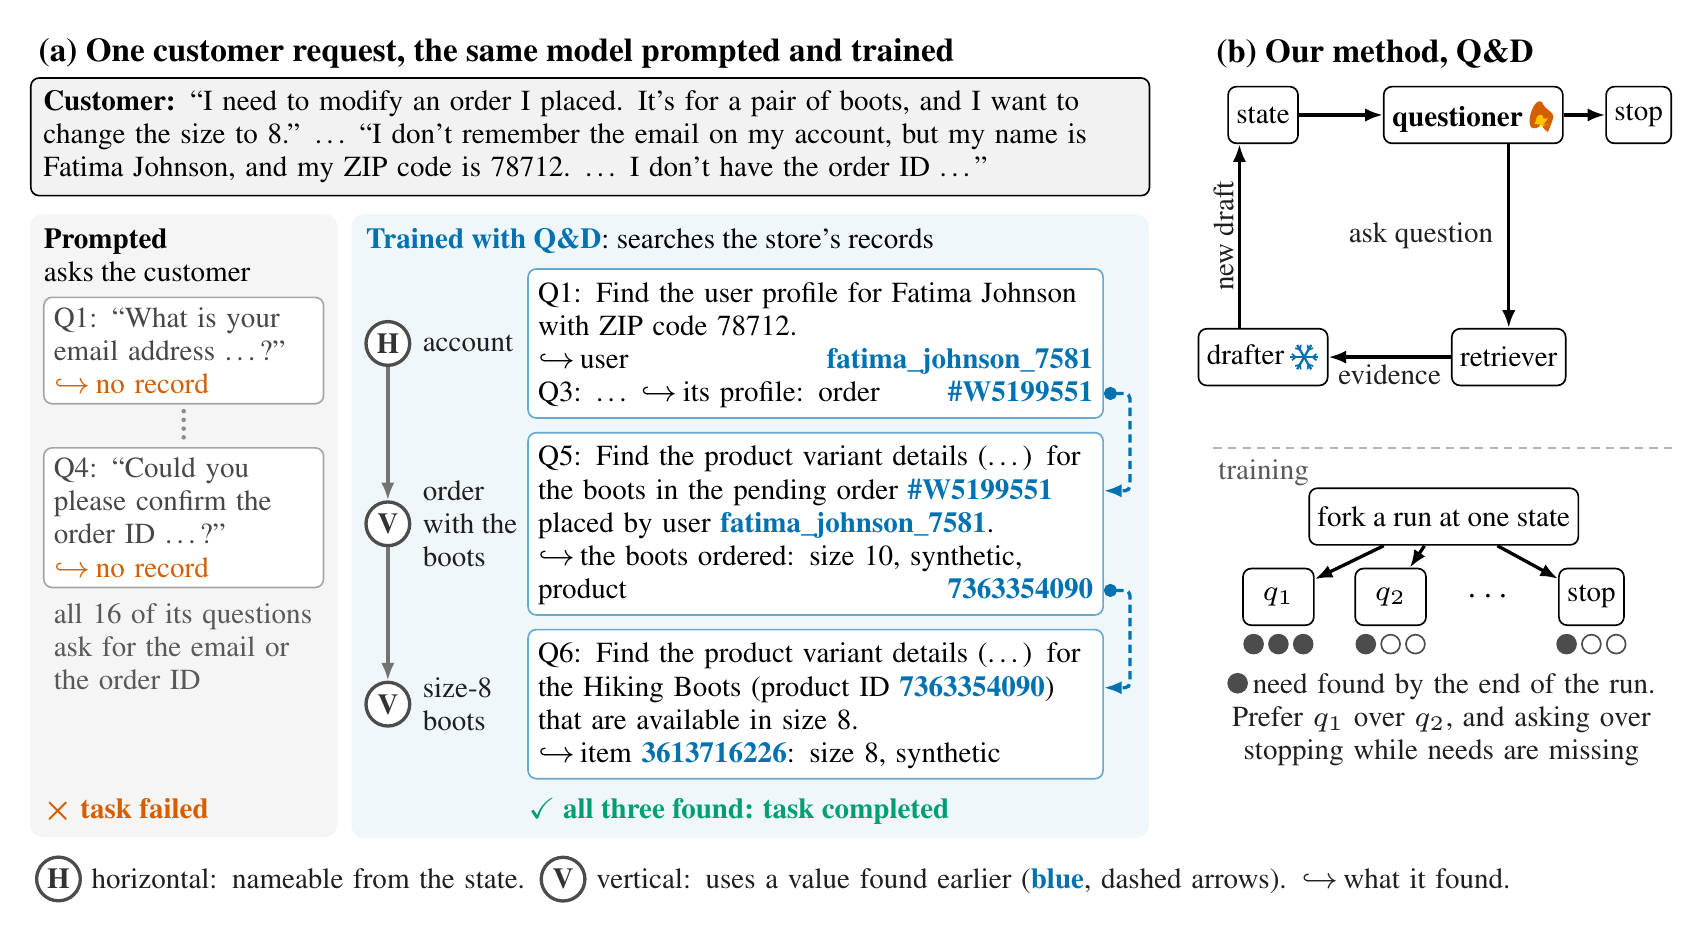
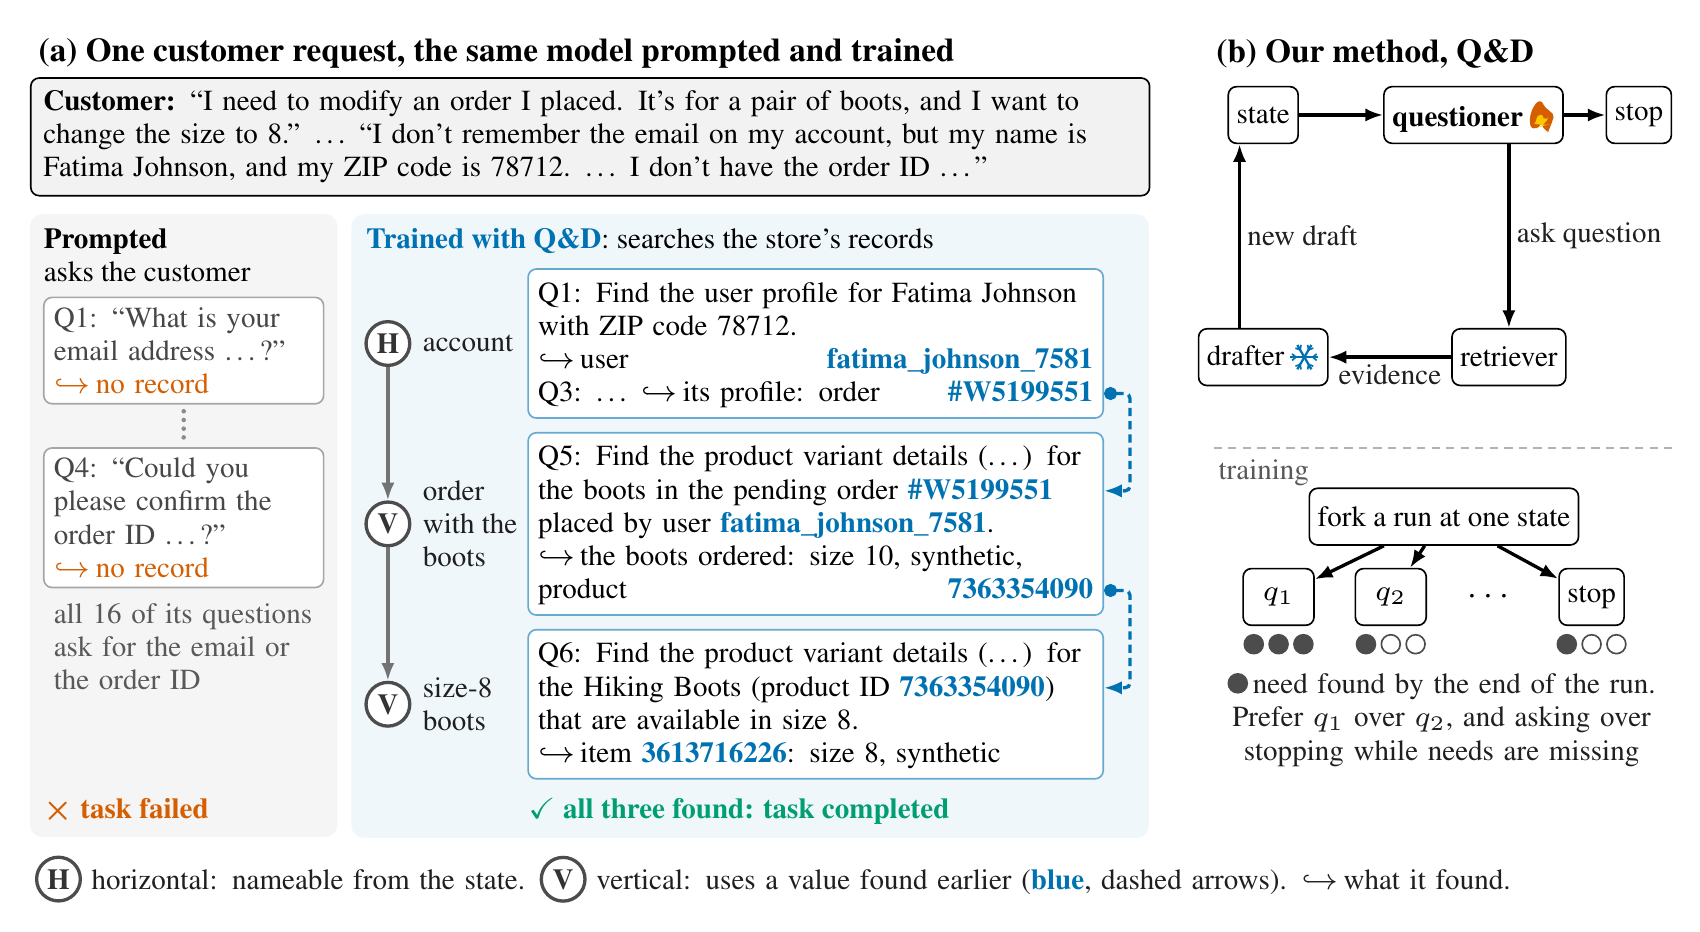
README and CITATION.cff: the paper is on arXiv (2609.37236), with the code's Zenodo DOI; Figure 1 with the paper's current panel (b); figure PDFs embed TrueType fonts

diff --git a/tests/test_paper_figures_iclr.py b/tests/test_paper_figures_iclr.py
@@ -3363,3 +3363,27 @@ def test_table_fourseeds_fits_at_full_size_with_six_columns(gen, tmp_path):
     spec = next(ln for ln in body if ln.startswith(r"\begin{tabular}"))
     assert "{@{}lccccc@{}}" in spec, spec
     assert not any("between-run SD" in ln or "bootstrap SE" in ln for ln in body)
+
+
+# --------------------------------------------------------------------------- font embedding
+
+
+def test_a_figure_pdf_embeds_its_fonts_as_truetype_not_type_3(gen):
+    """Google Scholar's inclusion guidelines: "Avoid use of Type 3 fonts in PDF files, because
+    they're often generated with missing or incorrect font size and character encoding information,
+    which makes it difficult for our parser software to extract the bibliographic data." matplotlib
+    writes Type 3 unless told otherwise, so the script's style must set TrueType (fonttype 42)."""
+    import io
+
+    plt = gen._mpl()
+    fig, ax = plt.subplots(figsize=(2, 1))
+    ax.set_title("(a) what each need costs")
+    ax.plot([0, 1], [0, 1], label="the trained questioner")
+    ax.legend()
+    buf = io.BytesIO()
+    fig.savefig(buf, format="pdf")
+    plt.close(fig)
+    pdf = buf.getvalue()
+    assert b"/Type3" not in pdf
+    assert b"/FontFile2" in pdf  # the TrueType program itself is embedded
+    assert plt.rcParams["ps.fonttype"] == 42

diff --git a/scripts/paper_figures_iclr.py b/scripts/paper_figures_iclr.py
@@ -8,7 +8,8 @@ per-decision stopping cells), `table1_heldout.tex` (both axes at equal spend on 
 splits) and `table2_mechanism.tex` (which supervision moves what, on development).
 
 The style is copied from `src/pi_run/render.py` and `scripts/figures_programme.py` so the three
-sets sit together without a seam: the same rcParams, the same Okabe-Ito palette, a PDF and a PNG
+sets sit together without a seam: the same rcParams (these PDFs embed TrueType fonts, not Type 3),
+the same Okabe-Ito palette, a PDF and a PNG
 per figure, and a provenance record whose `inputs` map every source file to its sha256.
 
 WHAT THIS SCRIPT REFUSES TO DO.
@@ -205,6 +206,9 @@ def _mpl():
             "axes.spines.right": False,
             "figure.dpi": 150,
             "savefig.bbox": "tight",
+            # TrueType, not matplotlib's default Type 3, which Google Scholar asks PDFs to avoid
+            "pdf.fonttype": 42,
+            "ps.fonttype": 42,
         }
     )
     return plt

diff --git a/README.md b/README.md
@@ -12,7 +12,8 @@
 <sup>1</sup>IBM &nbsp;&nbsp; <sup>2</sup>Weizmann Institute of Science
 
 [![Project page](https://img.shields.io/badge/Project-page-1B5EA8)](https://dolev31.github.io/ProactiveInquirer/)
-[![Paper](https://img.shields.io/badge/arXiv-coming%20soon-b31b1b?logo=arxiv&logoColor=white)](https://dolev31.github.io/ProactiveInquirer/)
+[![Paper](https://img.shields.io/badge/arXiv-2609.37236-b31b1b?logo=arxiv&logoColor=white)](https://arxiv.org/abs/2609.37236)
+[![DOI](https://zenodo.org/badge/DOI/10.5281/zenodo.23023448.svg)](https://doi.org/10.5281/zenodo.23023448)
 [![Model](https://img.shields.io/badge/%F0%9F%A4%97%20Model-ProactiveInquirer--Qwen3--8B-FFD21E)](https://huggingface.co/dolev31/ProactiveInquirer-Qwen3-8B)
 [![Tests](https://github.com/dolev31/ProactiveInquirer/actions/workflows/tests.yml/badge.svg)](https://github.com/dolev31/ProactiveInquirer/actions/workflows/tests.yml)
 [![License](https://img.shields.io/badge/license-Apache--2.0-blue)](LICENSE)
@@ -35,7 +36,7 @@
 
 - **2026-09** · The code, the need-graph metrics and the trained questioner
   ([🤗 ProactiveInquirer-Qwen3-8B](https://huggingface.co/dolev31/ProactiveInquirer-Qwen3-8B)) are
-  public, with a [project page](https://dolev31.github.io/ProactiveInquirer/). The paper is coming to arXiv.
+  public, with a [project page](https://dolev31.github.io/ProactiveInquirer/). The paper is on [arXiv](https://arxiv.org/abs/2609.37236).
 
 ## ✨ Highlights
 
@@ -250,7 +251,8 @@ If you use this code or the model, please cite:
 @article{levy2026asking,
   title   = {Asking for What Was Never Requested: Horizontal and Vertical Proactivity in Agents},
   author  = {Levy, Ido and Yehudai, Asaf and Shlomov, Segev and Adi, Asaf and Choshen, Leshem},
-  journal = {arXiv preprint},
+  journal = {arXiv preprint arXiv:2609.37236},
+  url     = {https://arxiv.org/abs/2609.37236},
   year    = {2026}
 }
 ```
